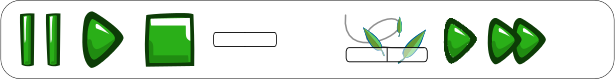
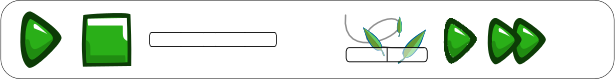
Remove the pause button and let the play button behave as a toggle button. This increases the room for the replay progress bar.

Changed region(s): [[0.0309, 0.1266, 0.3707, 0.8608]]

diff --git a/src/interface/interface.cpp b/src/interface/interface.cpp
@@ -364,8 +364,8 @@ void Interface::DrawWindInfo() const
 void Interface::DrawReplayInfo() const
 {
   t_speed->DrawCenter(bottom_bar_pos + Point2i(576*zoom+0.5f,default_toolbar.GetHeight()>>1));
-  float len = (GameTime::GetConstInstance()->Read() * 60.0f) / Replay::GetConstInstance()->GetDuration();
-  GetMainWindow().BoxColor(Rectanglei(bottom_bar_pos + Point2i(214*zoom, 35*zoom),
+  float len = (GameTime::GetConstInstance()->Read() * 128.0f) / Replay::GetConstInstance()->GetDuration();
+  GetMainWindow().BoxColor(Rectanglei(bottom_bar_pos + Point2i(149*zoom, 35*zoom),
                                       Point2i(len*zoom+0.5f, 11*zoom+0.5f)),
                            primary_red_color);
 }
@@ -877,34 +877,27 @@ bool Interface::ReplayClick(const Point2i &mouse_pos, ClickType type, Point2i ol
 {
   Game     *game = Game::GetInstance();
   Point2i mouse_rel_pos = mouse_pos-bottom_bar_pos;
-  Point2i size(62*zoom, replay_toolbar.GetHeight());
+  Point2i size(64*zoom, replay_toolbar.GetHeight());
 
   old_mouse_pos -= bottom_bar_pos;
 
-  Rectanglei pause_button(Point2i(10*zoom, 0), size);
-  if (pause_button.Contains(mouse_rel_pos)) {
-    // We have to go through the game loop to pause
-    if (type == CLICK_TYPE_DOWN)
-      game->RequestPause(true);
-    return true;
-  }
-
-  Rectanglei play_button(Point2i(72*zoom, 0), size);
+  Rectanglei play_button(Point2i(10*zoom, 0), size);
   if (play_button.Contains(mouse_rel_pos)) {
     // We have to go through the game loop to pause
     if (type == CLICK_TYPE_DOWN)
-      game->RequestPause(false);
+      game->RequestPause(!GameTime::GetConstInstance()->IsPaused());
     return true;
   }
 
-  Rectanglei stop_button(Point2i(134*zoom, 0), size);
+  Rectanglei stop_button(Point2i(72*zoom, 0), size);
   if (stop_button.Contains(mouse_rel_pos)) {
+    // We have to go through the game loop to pause
     if (type == CLICK_TYPE_DOWN)
       game->UserAsksForEnd();
     return true;
   }
 
-  Rectanglei skip_button(Point2i(214*zoom, 0), size);
+  Rectanglei skip_button(Point2i(149*zoom, 0), Point2i(128*zoom, replay_toolbar.GetHeight()));
   if (skip_button.Contains(mouse_rel_pos)) {
     uint time;
     switch (type) {
